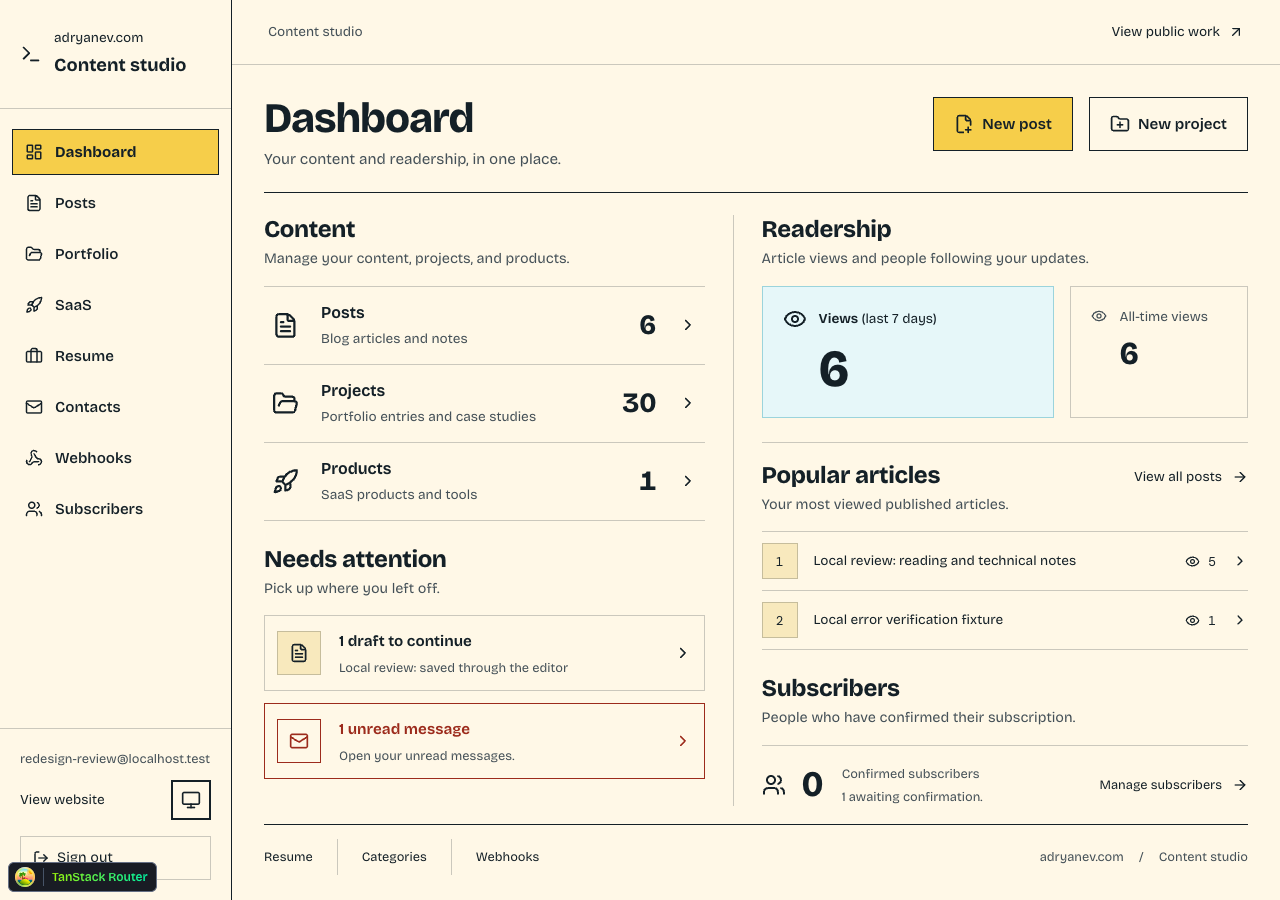
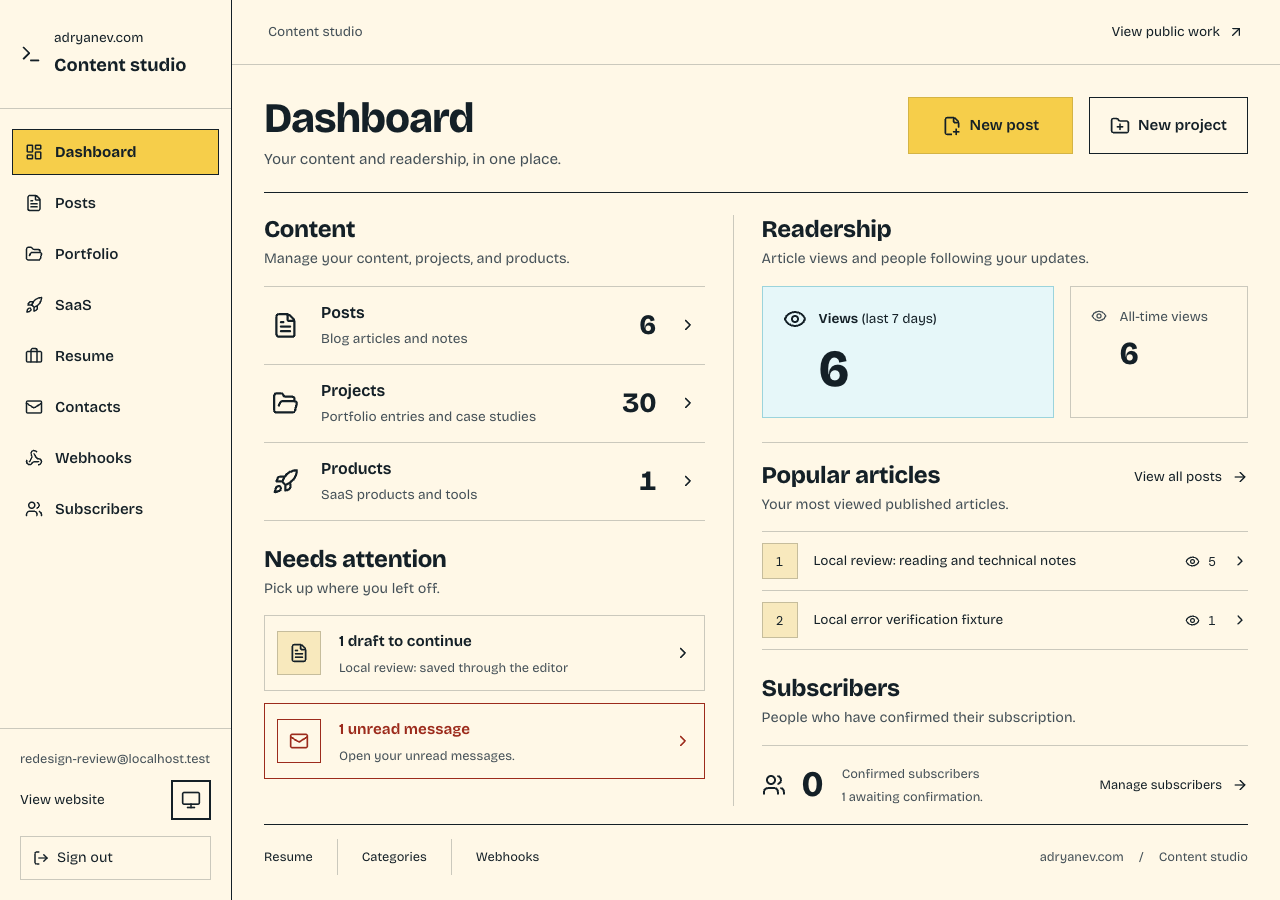
docs: record verified studio dashboard and review evidence

Changed region(s): [[0.6875, 0.0933, 0.8438, 0.1867], [0.0, 0.9333, 0.125, 0.9956], [0.875, 0.1244, 0.9688, 0.1556]]

diff --git a/docs/dashboard-redesign-verification.md b/docs/dashboard-redesign-verification.md
@@ -18,18 +18,22 @@ The retained detector report contains 21 advisory font-size findings against the
 
 ## Local evidence
 
-Evidence is retained in the original checkout at `.impeccable/review/dashboard/`. This document reports the build thread's results from `verification.json` and `detector.json`; the documenter did not rerun tests, build or browser checks.
+Evidence is retained in the original checkout at `.impeccable/review/dashboard/`. This document reports retained evidence and the build thread's final results. The documenter did not rerun tests, build or browser checks.
 
 | Check | Recorded result |
 | --- | --- |
-| Tests and typecheck | 12 tests passed; typecheck passed |
+| Tests and typecheck | 12 tests passed; typecheck passed before the final CSS-only CTA adjustment |
 | Navigation | New post, New project, latest draft edit, Products, Contacts and Subscribers routes recorded |
 | UTC date boundary | Baseline recent views 6; inserting 7 views at today minus six changed the authenticated browser total to 13. Buckets at today minus seven and tomorrow did not enter the recent total. Temporary rows were removed |
 | Pending and mobile | Pending state captured during an owned local table lock, then rolled back. Mobile navigation opens with `aria-expanded=true`; a 3px themed keyboard outline and no horizontal overflow are recorded |
-| Final captures | Parent inspected desktop, mobile, dark and empty captures without overflow. Final comp comparison reports 86% overall match |
-| Final acceptance | Independent finish verdict pending. Reviewer identified incorrect automated region labels; spec metadata and phase bookkeeping corrections are in progress. No UI polish was requested |
-| Production build | Pending. Node 26 attempt stopped under resource pressure; a serial Node 22 build is running after stopping dev servers |
+| Final captures | Compiled local production runtimes on ports 3002 and 3005 supplied normal and empty captures. Desktop, 1440px, mobile, dark and empty views have no recorded overflow; the 800px header DOM check also passed |
+| Finish review | `ship` for SCORED FIXES ONLY. Contract, persistence and CTA findings resolved; no visible regression in recaptured normal, dark or empty views |
+| Production build | Passed with Node 22.23.1 and a 4096MB heap. `/private/tmp/adryanev-dashboard-final-build.log` records exit 0 |
 
-Final captures are `final-1280.png` at 1280×900, `final-390.png` at 390×1802, `final-1280-dark.png` at 1280×900, `final-empty-1280.png` at 1280×919, `final-empty-390.png` at 390×1805 and `pending-1280.png`. The automated comparison initially measured the attention heading as a control and the footer rule as the complete navigation. The reviewer confirmed those region labels were incorrect. The final finish verdict remains outstanding.
+The hero gate closed with `gate.ok=true`, score `0.864`, without force. The primary desktop CTA now measures 165×57px with its gold fill and border; mobile remains 48px high and dark mode remains readable. The initial comparison mislabeled the attention heading as a control and the footer rule as complete navigation. The reviewer accepted the corrected contract and persistence records.
 
-The VPS is off. This dashboard is not deployed, and no authenticated production verification is claimed.
+The separate automated responsive gate remains open and failed. Its 1440×900 comparison marks all regions missing after uniformly shrinking the capture to 1280×800 and padding it. That transform misaligns the fixed 232px navigation rail and fluid content. The reviewer acknowledged this calibration limitation. The screenshots and overflow checks provide local responsive evidence, but the entire automated phase workflow is not recorded as passed.
+
+Committed captures are [desktop](images/dashboard-redesign/desktop.png), [wide desktop](images/dashboard-redesign/desktop-wide.png), [mobile](images/dashboard-redesign/mobile.png), [dark desktop](images/dashboard-redesign/desktop-dark.png), [empty desktop](images/dashboard-redesign/empty-desktop.png), [empty mobile](images/dashboard-redesign/empty-mobile.png) and [pending](images/dashboard-redesign/pending.png). Final populated and empty captures use the compiled runtime; the pending capture comes from the earlier local development check. All eight dashboard documentation PNGs, including the approved comp, embed their origin or exact generated prompt. The provenance scan found zero missing records.
+
+Delivery is tracked in [PR #17](https://github.com/adryanev/adryanev.com/pull/17). Both CI checks passed for implementation commit `2582a5f`; later evidence-only commits have their own check status in the PR. The VPS is off. This dashboard is not deployed, and no authenticated production verification is claimed.

diff --git a/.impeccable/surfaces/src-routes-admin-layout-index-tsx.md b/.impeccable/surfaces/src-routes-admin-layout-index-tsx.md
@@ -15,7 +15,7 @@ Preserve the coding-adventure visual system, authentication and native admin wor
 
 Three visual composition candidates were generated with the built-in image tool, anchored to the existing admin screenshot: Studio overview, Reading pulse, Content ledger. The decision seed is `7b49d8e7`, dealt structures 4, 6, 3. Comps and exact prompts live in `.impeccable/mocks/dashboard-decision/`. The illustrated preview content is not production evidence.
 
-The user approved **1 — Studio overview** on 2026-10-14. Approved comp: `.impeccable/mocks/dashboard-decision/split.png`; its prompt sidecar records explicit approval. The comparison copy in the original checkout is `.impeccable/mocks/comp-1.png`, normalized to the requested 1280×900 viewport. Build path is comp.
+The user approved **1 — Studio overview** on 2026-10-14. Approved comp: `docs/images/dashboard-redesign/approved-studio-overview.png`; its `.png.json` prompt sidecar records explicit approval. The original checkout retains `.impeccable/mocks/dashboard-decision/split.png` and the normalized 1280×900 comparison copy `.impeccable/mocks/comp-1.png` as historical local evidence. Build path is comp.
 
 ## Direction contract
 
@@ -37,4 +37,6 @@ TRANSLATION: The comp's illustrative counts and its mistaken popular-draft examp
 
 IMPLEMENTED: `DashboardOverview.tsx` and `dashboard.css` express the approved two-column overview with existing admin tokens and pinned Bricolage typography. At 1050px and below, content stacks before readership. Authenticated loaders provide real counts, the latest non-deleted draft's direct edit link, published-only popular articles and separate confirmed/pending subscription counts. The recent view total includes seven UTC buckets, today minus six through today; views are article opens, not unique visitors. Empty regions preserve their next action, and the route announces its loading state. All regions use HTML/CSS and Lucide icons; the approved raster remains a design reference.
 
-VERIFICATION: The retained `.impeccable/review/dashboard/verification.json` records 12 passing tests, passing typecheck, task-link checks, the UTC boundary check, pending-state capture and mobile navigation/focus/overflow checks. The parent inspected final desktop, mobile, dark and empty captures without overflow. The final comp comparison reports 86% overall match. The reviewer identified incorrect automated region labels, requiring spec metadata and phase bookkeeping corrections; its final verdict remains pending. `detector.json` records 21 advisory font-size findings against the existing documented ramp. These sizes are not added to the global system. The production build remains pending after the Node 26 attempt was stopped under resource pressure; a serial Node 22 build is running. See `docs/dashboard-redesign-verification.md`. The VPS is off and this work is not deployed. `DESIGN.md` and `.impeccable/design.json` are preserved.
+VERIFICATION: Retained evidence records 12 passing tests and passing typecheck before the final CSS-only CTA adjustment, task-link checks, the UTC boundary check, pending state and mobile navigation/focus/overflow checks. The final Node 22.23.1 production build passed with exit 0. Compiled-runtime desktop, 1440px, mobile, dark and empty captures have no recorded overflow; the 800px header DOM check passed. Committed captures are in `docs/images/dashboard-redesign/`; all seven documentation PNGs have embedded provenance. `detector.json` retains 21 advisory font-size findings, which are not added to the global system.
+
+REVIEW STATUS: The independent verdict is `ship` for SCORED FIXES ONLY. Contract, persistence and CTA findings are resolved, with no visible regression in recaptured normal, dark or empty views. The hero gate closed with `gate.ok=true`, score `0.864`, without force. The separate responsive gate remains open and failed: uniform downscaling and padding misalign the fixed rail and fluid content in the 1440px comparison, a calibration limitation acknowledged by the reviewer. The entire automated phase workflow is not claimed passed. See `docs/dashboard-redesign-verification.md`. PR #17 is draft with CI ongoing at `2582a5f`. The VPS is off and this work is not deployed. `DESIGN.md` and `.impeccable/design.json` are preserved.
